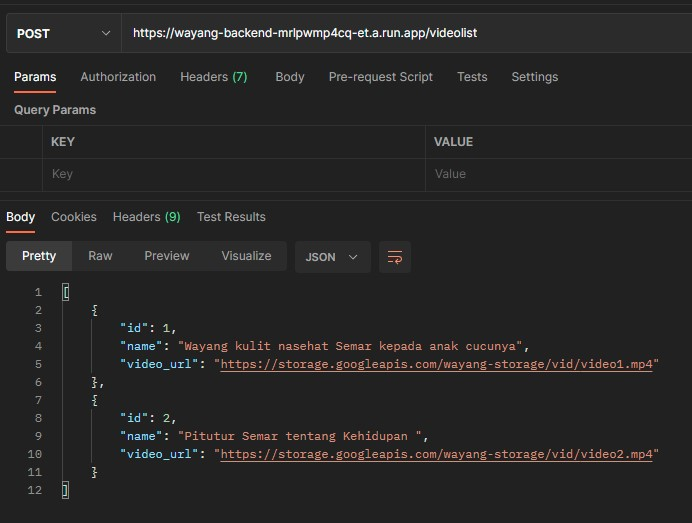
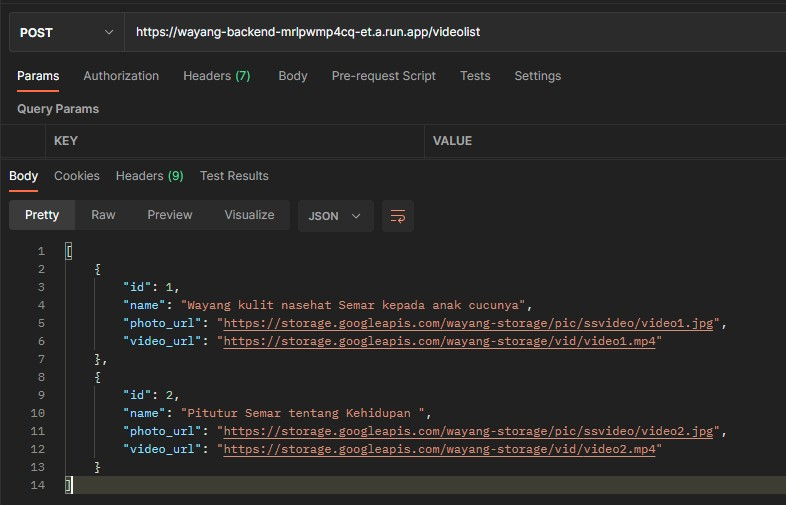
updating documentation for video

diff --git a/README.md b/README.md
@@ -115,11 +115,13 @@ Backend or Something that reeks of cloud computing
         {
             "id": 1,
             "name": "Wayang kulit nasehat Semar kepada anak cucunya",
+            "photo_url": "https://storage.googleapis.com/wayang-storage/pic/ssvideo/video1.jpg",
             "video_url": "https://storage.googleapis.com/wayang-storage/vid/video1.mp4"
         },
         {
             "id": 2,
             "name": "Pitutur Semar tentang Kehidupan ",
+            "photo_url": "https://storage.googleapis.com/wayang-storage/pic/ssvideo/video2.jpg",
             "video_url": "https://storage.googleapis.com/wayang-storage/vid/video2.mp4"
         }
     ]
